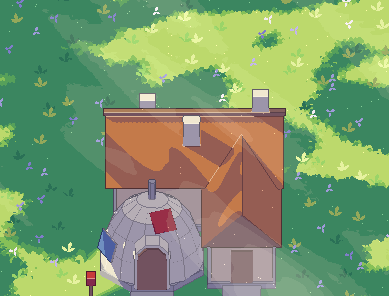
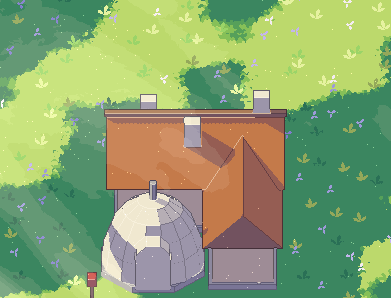
Build only the global form; details become textures
The building guide now asks for shapes only where a texture cannot show
the part: main volumes, parts that stick out (chimneys, pipes, an
entrance block), and small props that stand alone. Doors, windows,
signs, holes, and steps are left to textures, and no shape has the door
role for now.

The Chichi example drops its doors, windows, sign, and steps (25 to 17
shapes). The Buu house is added as a second example (12 shapes), with a
section on round bodies lying down.

Claude-Session: https://claude.ai/code/session_01RTs7g9ZtRZkezttS3mRvFA

diff --git a/documentation/building/README.md b/documentation/building/README.md
@@ -1,26 +1,55 @@
 # Building guide
 
-This guide says how to build a building from shapes. It is based on one example: the Chichi house that Claude built by hand. It shows how that house was built, step by step, and turns each step into a rule for any building.
+This guide says how to build a building from shapes. It is based on 2 examples: the Chichi house that Claude built by hand, and the Buu house. It shows how they were built and turns each step into a rule for any building.
 
-Every number here comes from `example/chichi-house.json`. "My reading" means the JSON does not show it: it is how I read what the JSON does. The guide agrees with `../style/rules.md`.
+The numbers here come from the 2 example plans. "My reading" means the plan does not show it: it is how I read what the plan does.
 
-For now, buildings use plain colors, no textures (see section 7).
+For now, buildings use plain colors, no textures (see section 7). Textures come later.
 
-The example:
+The examples:
 
-- `example/chichi-reference.png`: the image the house was built from.
-- `example/chichi-house.json`: the plan of shapes. It is Claude's hand-built plan with a few color changes so it follows the simple color rules. The shapes are not changed. Section 7 lists the changes.
-- `example/chichi-house.png`: the render in the game of Claude's plan. The changes do not show in it (99.8% of the pixels are the same).
-
-| Reference | Render in the game |
-| --- | --- |
-| ![Chichi house reference](example/chichi-reference.png) | ![Chichi house render](example/chichi-house.png) |
+| | Reference | Render in the game |
+| --- | --- | --- |
+| Chichi house: `example/chichi-house.json` | ![Chichi house reference](example/chichi-reference.png) | ![Chichi house render](example/chichi-house.png) |
+| Buu house: `example/buu-house.json` | ![Buu house reference](example/buu-reference.png) | ![Buu house render](example/buu-house.png) |
 
 The JSON is a plan, the format Infer returns (see `apps/asset-studio/server/shapes.ts`): `description`, `layout`, `shapes`, `textures`. In a plan, `faces` is a list of `{"face", "texture"}`. In `asset.json`, the same faces are a map from face name to slot.
 
-## 0. Keep shapes simple
+## 0. Only the global form
 
-> **The simpler the shape, the better. This rule comes first.**
+> **Build only the global form of the building. Everything else is a texture.**
+
+What matters is the global form: the outline and the volumes, so the building reads like the reference. The details do not matter now. They will be painted in textures later, so the result looks like the reference.
+
+**Make a shape** only for a part that a texture cannot show and that is a simple form:
+
+- the main volumes: walls, roofs, domes, wings, round bodies;
+- parts that stick out of the outline: chimneys, pipes, an entrance block that comes out of a wall, feet;
+- small things that stand alone, away from a wall: a mailbox, a post.
+
+**Do not make a shape** for anything that lies on a surface. It will be a texture on that surface:
+
+- doors, even the door that opens. The door will open and close as a texture;
+- windows, portholes, and window frames;
+- signs and marks;
+- holes and openings: a round door hole, the open end of a tube;
+- steps, frames, trim, bricks, planks, roof tiles, stones.
+
+The test: could it be painted on the surface of a bigger shape and still read right? Then it is a texture, not a shape.
+
+Chichi house:
+
+- Shapes: the walls, the 2 roofs, the ridge board, the 3 chimneys, the dome and its pipe, the white arch block that comes out of the dome, the wing, and the mailbox on its post. The 3 chimneys stick up from the roof, so a texture cannot show them.
+- Textures later: the 2 doors, the 2 windows, the red sign, the steps.
+
+Buu house:
+
+- Shapes: the head dome, the 4 segments, the 2 feet, and the tube on top. The front of the tube is only a flat round side.
+- Textures later: the round door hole on the head (the "eye"), the hole in the front of the tube, and all the small round windows.
+
+This differs from `../style/rules.md`, which makes doors, windows, and posts real shapes and gives each door the role "door". For buildings, follow this guide.
+
+### Keep the shapes simple
 
 This is 3D pixel art. A building is a few plain blocks, not a detailed model. The renderer, the outlines, and the colors give the look.
 
@@ -28,14 +57,11 @@ Do not make:
 
 - rounded edges or bevels,
 - curved roofs,
-- frames or trim built from many pieces,
-- extra shapes for small details.
+- frames or trim built from many pieces.
 
-If a part reads fine as one box, it is one box.
+If a part reads fine as one box, it is one box. The whole Chichi main house is 1 box for the walls (`walls`) and 1 wedge for the roof (`roof`). A base, a ridge board, and 3 chimneys add 5 more boxes. That is all.
 
-The proof is the Chichi house. The whole main house is 1 box for the walls (`walls`) and 1 wedge for the roof (`roof`). A base, a ridge board, 3 chimneys, and 1 window add 6 more boxes. That is all. Each part is one plain color: no bricks, no roof tiles, no planks, no window frame.
-
-Round things stay plain too. A cylinder has 8 flat sides and a dome has 14 sides and 5 bands (`packages/asset-format/src/geometry.ts`). The round top of the dome door is 1 cylinder laid on its side, not a ring of pieces. The sign is 1 red square box.
+Round things stay plain too. A cylinder has 8 flat sides and a dome has 14 sides and 5 bands (`packages/asset-format/src/geometry.ts`).
 
 ## 1. Coordinates
 
@@ -69,7 +95,7 @@ The Chichi `layout` gives each part its range and checks it:
 | Dome | front left | -2.17 to 0.23 | 1.4 to 3.8 | stands whole in front of the main house: 1.4 > 1.2 |
 | Wing | front right | 0.36 to 1.8 | 0.4 to 3.6 | starts right of the dome: 0.36 > 0.23 |
 
-The layout also gives the numbers the shapes need later: the dome center (x -0.97, z 2.6), its radius 1.2 and height 1.68, the roof height (1.15 m over 2.4 m), and the angles of the sign and the dome window.
+The layout also gives the numbers the shapes need later: the dome center (x -0.97, z 2.6), its radius 1.2 and height 1.68, and the roof height (1.15 m over 2.4 m). It ends by saying which details will be textures.
 
 The wing goes into the main house from z 0.4 to 1.2. The layout says so: "that joins the main house". Walls that join may touch. The dome does not touch the main house.
 
@@ -86,26 +112,27 @@ Build in this order. Each step names the Chichi shapes.
 | 3 | Wedge roof | `roof` |
 | 4 | Ridge board | `ridge` |
 | 5 | Chimneys | `chimney-1`, `chimney-2`, `chimney-3` |
-| 6 | Windows | `side-window` |
-| 7 | Second volumes | the dome on its ring: `dome-ring`, `dome`, `dome-pipe`, with `dome-sign` and `dome-window` on it; the wing: `wing-base`, `wing-walls`, `wing-roof` |
-| 8 | Doors with steps | dome door: `arch`, `arch-top`, `dome-door` (`role: "door"`), `door-top`, `dome-step`; wing door: `wing-door` (`role: "door"`), `wing-step` |
-| 9 | Small props | `mailbox-post`, `mailbox` |
+| 6 | Second volumes | the dome on its ring: `dome-ring`, `dome`, `dome-pipe`; the wing: `wing-base`, `wing-walls`, `wing-roof` |
+| 7 | Blocks that stick out | the entrance block of the dome: `arch`, `arch-top` |
+| 8 | Small props | `mailbox-post`, `mailbox` |
 
-In the JSON the dome door comes right after the dome, before the wing. The order of shapes in the file does not change the model.
+The order of shapes in the file does not change the model.
 
 Each part sits on the part under it:
 
 - The walls start at y 0.16, the top of the base.
 - The roof starts at y 1.3, the top of the walls (0.16 + 1.14).
 - The dome starts at y 0.16, the top of its ring. The wing walls start at y 0.16, the top of the wing base.
-- The doors and the arch start at y 0.16, the floor height of the base and the ring.
-- The steps and the mailbox post stand on the ground, at y 0.
+- The arch starts at y 0.16, the floor height of the ring.
+- The mailbox post stands on the ground, at y 0.
 
 A second volume (the dome, the wing) gets its own base, like the main house.
 
+The stone base: a building with walls, like the Chichi house, stands on a low stone base (`rules.md`). A round building that sits on the ground in its reference, like the Buu house, gets no base. Follow the reference.
+
 ## 4. Sizes
 
-All sizes are measured from the JSON.
+All sizes are measured from the Chichi plan.
 
 ### Base
 
@@ -140,32 +167,11 @@ All sizes are measured from the JSON.
 - `chimney-1` runs from z -0.64 to -0.32. The roof there is at y 1.946 and 2.198. The chimney bottom is at 1.815: 0.13 below the low edge. Its top is at 2.565: 0.37 above the high edge. `chimney-2` is the same on the front slope.
 - `chimney-3` stands near the ridge: its bottom is 0.065 below the low edge, and its top (2.933) is 0.43 above the ridge board.
 
-### Doors
-
-- Dome door (`dome-door`): a box 0.68 × 0.8, with a half disc of radius 0.34 on top (`door-top`).
-- It stands in a white arch (`arch`) 0.84 × 0.8 × 0.42, with a half disc of radius 0.42 on top (`arch-top`). The arch is 0.08 wider than the door on each side.
-- Wing door (`wing-door`): a box 0.5 × 0.86.
-- Both doors are 0.06 thick.
-- How far a door stands out: the dome door runs from z 3.89 to 3.95 and the arch front is at 3.89, so it stands 0.06 out. The wing door runs from z 3.59 to 3.65 and the wing wall front is at 3.6, so it stands 0.05 out and 0.01 in.
-- Both doors start at y 0.16, on the base or the ring.
-
-### Steps
-
-- 0.1 high, on the ground. A step is lower than the base (0.16).
-- 0.36 deep (dome) and 0.5 deep (wing).
-- Wider than the door: 1.0 for the 0.68 door (0.16 more on each side), 0.9 for the 0.5 door (0.2 more on each side).
-- A step touches what is behind it. `dome-step` starts at z 3.92, 0.03 under the door front (3.95). `wing-step` starts at z 3.65, 0.02 under the front of the wing base (3.67).
-
-### Windows and flat parts
-
-- `side-window`: 0.46 wide, 0.36 high, 0.1 thick, on the left wall. The wall face is at x -1.8 and the window runs from x -1.88 to -1.78: 0.08 out and 0.02 in. Its bottom is at y 0.58.
-- `dome-window`: 0.74 × 0.5, 0.05 thick.
-- `dome-sign`: 0.52 × 0.52, 0.04 thick.
-
 ### Other parts
 
 - `dome`: 2.4 wide and deep, 1.68 high. A true half-sphere would be 1.2 high; this dome is taller.
 - `dome-pipe`: 0.2 wide, 0.52 high. Its bottom is at y 1.74 and the dome top at 1.84, so it sinks 0.1 into the dome.
+- Entrance block of the dome: a white box (`arch`) 0.84 × 0.8 × 0.42 with a half disc of radius 0.42 on top (`arch-top`). It comes 0.09 out of the front of the dome (front at z 3.89, dome front at 3.8). The door on it will be a texture.
 - Mailbox: a post 0.08 × 0.6 × 0.08 and a box 0.24 × 0.2 × 0.3 on top of it, at y 0.6. 0.8 high in all.
 
 ### Compared with rules.md
@@ -173,7 +179,7 @@ All sizes are measured from the JSON.
 | rules.md | Chichi |
 | --- | --- |
 | Walls 1.2 to 1.4 m high | 1.3 (main) and 1.22 (wing), from the ground. The wall boxes alone are 1.14 and 1.06. My reading: rules.md counts from the ground, base included. |
-| A door about 0.6 × 0.85 m | 0.5 × 0.86 (wing). 0.68 × 0.8 plus a round top of radius 0.34 (dome). |
+| A door about 0.6 × 0.85 m | Not a shape now. Use this size when the door is painted. |
 | A small house about 3.6 × 2.4 m | Main walls 3.6 × 2.4. |
 | Roofs hang over by about 0.25 m | 0.26 (main), 0.2 (wing). |
 | A thin ridge board | 0.1 high, 0.18 wide, on the main roof only. |
@@ -181,13 +187,13 @@ All sizes are measured from the JSON.
 
 ## 5. Shape types
 
-| Type | Faces | Use it for | In Chichi |
-| --- | --- | --- | --- |
-| box | front, back, left, right, top, bottom | walls, bases, chimneys, windows, doors, steps, signs, posts | 18 |
-| cylinder | side, top, bottom (8 flat sides) | round bases, pipes, round tops (laid on its side) | 4: `dome-ring`, `dome-pipe`, `arch-top`, `door-top` |
-| wedge | front and back (the 2 slopes), left and right (the triangle ends), bottom | gable roofs | 2: `roof`, `wing-roof` |
-| pyramid | front, back, left, right, bottom | not in Chichi. My reading: roofs with 4 slopes, pointed tops | 0 |
-| dome | side, bottom (14 sides, 5 bands) | round houses. Width, depth, and height may differ | 1: `dome` |
+| Type | Faces | Use it for | In Chichi | In Buu |
+| --- | --- | --- | --- | --- |
+| box | front, back, left, right, top, bottom | walls, bases, chimneys, entrance blocks, posts | 11 | 0 |
+| cylinder | side, top, bottom (8 flat sides) | round bases, pipes, round tops and flat round ends (laid on its side) | 3: `dome-ring`, `dome-pipe`, `arch-top` | 1: `tube-rim` |
+| wedge | front and back (the 2 slopes), left and right (the triangle ends), bottom | gable roofs | 2: `roof`, `wing-roof` | 0 |
+| pyramid | front, back, left, right, bottom | My reading: roofs with 4 slopes, pointed tops | 0 | 0 |
+| dome | side, bottom (14 sides, 5 bands) | round houses and round bodies. Width, depth, and height may differ | 1: `dome` | 11 |
 
 ### A wedge with its gable to the front
 
@@ -205,58 +211,29 @@ With `tilt: 90` a cylinder lies on its side. Its flat faces look to the front an
 
 - `arch-top`: size [0.84, 0.43, 0.84], position y 0.96, z 3.47, tilt 90. It is a disc of radius 0.42, centered at y 0.96 (the top of the arch box), from z 3.47 (the back of the arch box) to 3.90.
 - Its lower half is inside the arch box, so only the upper half shows: a round top.
-- `door-top` does the same on the door: radius 0.34, at y 0.96, from z 3.89 to 3.96.
-- Each disc is 0.01 deeper than the box under it (0.43 vs 0.42, 0.07 vs 0.06), so its front stands just in front of the box front. My reading: so the 2 fronts do not lie in the same plane.
+- It is 0.01 deeper than the box under it (0.43 vs 0.42), so its front stands just in front of the box front. My reading: so the 2 fronts do not lie in the same plane.
 
-## 6. Things on curved surfaces
+## 6. Round bodies lying down
 
-The sign and the window lie flat on the dome and stand out of it. Their front face must point straight out of the dome. `rotationY` and `tilt` do this.
+The Buu house shows how to build round forms that lie down, such as the tube on its head.
 
-After a turn r and a tilt t, the front face of a box points along:
+### Laying a shape along a direction
 
-(sin r × cos t, −sin t, cos r × cos t)
+With `tilt: 90`, the height of a cylinder or a dome lies flat. Its axis then points along (sin r, 0, cos r), where r is `rotationY`. To lay it along a direction u seen from above, use r = atan2(u.x, u.z).
 
-This direction must be the direction straight out of the dome at that point (the normal).
+The Buu tube runs to the back right, 30° from x: u = (0.866, 0, -0.5), so r = 120. A dome laid with `rotationY: 120` points its round top to the back right. With `rotationY: -60` (120 − 180) it points to the front left.
 
-### How to work out the angles
+### An egg shape: 2 domes back to back
 
-The dome: the center of its bottom is (cx, y0, cz) = (-0.972, 0.16, 2.6). R = width / 2 = 1.2. H = height = 1.68.
+2 domes with the same center and the same width, one pointing each way, make an egg. Each half can have its own length. The front and back of the Buu tube are made this way.
 
-Let C be the middle of the box, just out of the dome surface. Then:
+### A flat round end
 
-1. Turn: `rotationY` = atan2(C.x − cx, C.z − cz).
-2. Tilt: the dome is a stretched half-sphere (H is not R), so use its stretched normal.
-   - d = sqrt((C.x − cx)² + (C.z − cz)²), the distance from the center, seen from above.
-   - e = atan( ((C.y − y0) / H²) / (d / R²) ), the angle of the normal above the ground.
-   - `tilt` = −e.
-   - On a true half-sphere (H = R), e is the angle of C above the base, seen from the center.
-3. Position: `position` is the center of the bottom of the box, not its middle. Go back from C by half the box height, along the box's own up direction:
-   - up = (sin t × sin r, cos t, sin t × cos r)
-   - `position` = C − (height / 2) × up
+A dome ends in a round point. To cut a round body flat, put a short cylinder (laid the same way) at the end, with its front face where the flat end should be. The tip of the dome must stay inside that cylinder. The Buu tube does this with `tube-rim`: 1.36 wide, its front face is the flat front of the tube. The hole in it will be a texture.
 
-### Check with the JSON
+### A steady swelling
 
-The sign. Its middle is C = (-0.722, 1.566, 3.226).
-
-- C minus the dome center: x 0.25, y 1.406, z 0.626.
-- `rotationY` = atan2(0.25, 0.626) = 21.8.
-- d = 0.674. e = atan((1.406 / 2.8224) / (0.674 / 1.44)) = atan(0.498 / 0.468) = 46.8. So `tilt` = -46.8.
-- up = (-0.271, 0.685, -0.677). `position` = C − 0.26 × up = (-0.652, 1.388, 3.402).
-- The JSON has `rotationY: 21.8`, `tilt: -46.8`, `position: [-0.652, 1.388, 3.402]`.
-
-The dome window. Its middle is C = (-1.997, 0.788, 3.059).
-
-- C minus the dome center: x -1.025, y 0.628, z 0.459.
-- `rotationY` = atan2(-1.025, 0.459) = -65.9.
-- d = 1.123. e = atan((0.628 / 2.8224) / (1.123 / 1.44)) = atan(0.223 / 0.780) = 15.9. So `tilt` = -15.9.
-- up = (0.250, 0.962, -0.112). `position` = C − 0.25 × up = (-2.06, 0.548, 3.087).
-- The JSON has `rotationY: -65.9`, `tilt: -15.9`, `position: [-2.06, 0.548, 3.087]`.
-
-### How far out
-
-In both, C is about 0.01 out of the dome surface. So the back face is just inside the dome (0.008 for the sign, 0.015 for the window) and the front face stands about 0.03 out. The JSON does not show how C was picked. My reading: pick a point on the dome, then move it about 0.01 out along the normal.
-
-Use the same steps for any curved surface: find the normal at the point, then turn and tilt the front face onto it.
+One egg swells fast near its tip, then slowly. To make a body that grows slowly and steadily, like the Buu tube, put 2 eggs one after the other: a thinner one in front and a fatter one behind. Size them so the outline rises with no dip, and keep each tip hidden inside the other egg or the rim. The Buu tube: the outline is 0.63 m (radius) at the front, grows steadily to 0.88 m at two thirds of its length, then ends in a round back.
 
 ## 7. Colors
 
@@ -264,25 +241,28 @@ For now there are no textures. Each texture slot is used only for its plain `col
 
 ### One slot per material
 
+Chichi house:
+
 | Slot | Color | Used on |
 | --- | --- | --- |
-| grey | #b8b4b0 | bases, dome ring, dome pipe, steps |
+| grey | #b8b4b0 | bases, dome ring, dome pipe |
 | cream | #f2dab0 | walls, wing walls |
 | tile | #c47a4a | both roofs: slopes and bottom |
-| wood | #ab7c58 | doors, door top, ridge board, triangle ends of both roofs, mailbox post |
+| wood | #ab7c58 | ridge board, triangle ends of both roofs, mailbox post |
 | white | #f0e8d0 | dome, arch, arch top, chimneys |
-| glass | #6f8fc0 | both windows |
-| red | #c83a3a | sign, mailbox |
+| red | #c83a3a | mailbox |
 
-- One slot per material, not one slot per part. A sign or a window is a box with a material color: the sign is `red`, like the mailbox; both windows are `glass`. This differs from `rules.md`, which gives each sign and window its own slot. That rule is for textures and comes back with them.
+Buu house: 1 slot, `white` (#eeebf5), on every shape.
+
+- One slot per material, not one slot per part.
 - The same material has the same color everywhere.
-- Daylight colors only. The reference is lit by an orange evening light. The plan uses plain day colors: cream #f2dab0, white #f0e8d0, not orange.
+- Daylight colors only. The Chichi reference is lit by an orange evening light. The plan uses plain day colors: cream #f2dab0, white #f0e8d0, not orange.
 - A slot color is the color in the sun. The renderer makes the shade tones.
 
 ### Which face gets which color
 
-- A shape is one color on all its faces: the color of its part. Walls are cream, doors wood, chimneys white, steps grey, windows glass.
-- The bottom gets that color too. Do not use `null`. A tilted shape can show its bottom: the dome sign leans back, so the game camera sees its bottom edge. A `null` face shows the grey fallback color there.
+- A shape is one color on all its faces: the color of its part. Walls are cream, chimneys white, bases grey.
+- The bottom gets that color too. Do not use `null`. A shape laid on its side shows its bottom: the flat front of the Buu tube is the `bottom` face of `tube-rim`. A `null` face shows the grey fallback color there.
 - A roof wedge is the only shape with 2 colors: its slopes and bottom are `tile`, its triangle ends (`left`, `right`) are `wood`. This is the same for every roof.
 
 Why wood on every triangle end: the camera looks straight along -z and never turns. A roof with its ridge along x has its triangle ends looking left and right, so the camera never sees them. Only a turned roof, like the wing roof, shows a triangle end, and there the plan uses wood. So one rule gives the same picture.
@@ -291,42 +271,36 @@ Why wood on every triangle end: the camera looks straight along -z and never tur
 
 The schema still needs `widthM`, `heightM`, and `description` on each slot. They do not change a plain color. Keep them ready for when textures come: `widthM` × `heightM` is the size of the main face the slot covers (cream 3.6 × 1.2, about the front wall), and `description` says what to paint.
 
-### What changed from Claude's plan
+### What changed from Claude's Chichi plan
 
-Claude's hand-built plan had 2 more slots and a few other face choices. The example now follows the rules above. No shape was changed.
-
-| Change | Seen in the game camera? |
+| Change | Why |
 | --- | --- |
-| `description`: "Goku's house" became "Chichi's house". | No. |
-| Main roof triangle ends: `cream` became `wood`. | No. They look left and right. |
-| Slot `sign` (#c83a3a) became `red` (#c83a3a). The slot was removed. | No. Same color. |
-| Slot `dome-window` (#6f8fc0) became `glass` (#6f8fc0). The slot was removed. | No. Same color. |
-| Dome window edges: `white` became `glass`. | Yes: its thin edges. |
-| Every `null` face got the color of its part. | Only the bottom edge of the sign. It was the grey fallback; it is now red. |
+| `description`: "Goku's house" became "Chichi's house". | The right name. |
+| Main roof triangle ends: `cream` became `wood`. | One rule for every roof. The camera never sees these faces. |
+| Every `null` face got the color of its part. | A `null` face that shows is grey. |
+| The 2 doors, the round door top, the 2 windows, the sign, and the 2 steps were removed, with the `sign`, `dome-window`, and `glass` slots. | Only the global form. They will be textures. |
 
-Check: both plans were drawn in flat colors from the game camera, with `geometry.ts`. 99.8% of the house pixels are the same. The 0.2% that differ are the dome window edges and the sign's bottom edge.
+The plan went from 25 to 17 shapes.
 
 ## 8. Limits
 
-- At most 30 shapes (`MAX_SHAPES` in `schema.ts`). Chichi uses 25: 18 boxes, 4 cylinders, 2 wedges, 1 dome.
+- At most 30 shapes (`MAX_SHAPES` in `schema.ts`). Chichi uses 17: 11 boxes, 3 cylinders, 2 wedges, 1 dome. Buu uses 12: 11 domes and 1 cylinder.
 - Only 5 shape types: box, cylinder, wedge, pyramid, dome.
-- No surface details as shapes: no bricks, planks, roof tiles, stones, cracks, or window frames. For now they are not shown at all; later they will be painted in textures. The Chichi side window is 1 blue box. The sign is 1 red box.
-- Doors, windows, chimneys, and posts are real small shapes. Chichi has 2 doors, 2 windows, 3 chimneys, 1 post, and 1 sign.
-- Every door is a real shape with `role: "door"`. Chichi has 2: `dome-door` and `wing-door`. All other shapes have `role: null`, the round door top (`door-top`) too.
+- No doors, windows, signs, holes, steps, or surface details as shapes. They will be textures.
+- No shape has `role: "door"` for now. The door will open and close as a texture.
 
 ## 9. Checklist
 
 Check a new building against this list before it is done.
 
-1. Could any part be a simpler shape, or fewer shapes? Then make it simpler.
-2. There is a one-sentence `description` and a `layout` with every part, its x and z range, and checks with numbers.
-3. The front faces +z. The ground is at y = 0. Each `position` is the center of the bottom of its shape.
-4. Every part sits on the part under it. Nothing floats. Chimneys and pipes sink into their roof or dome.
-5. The base is 0.16 high and sticks out 0.07 past the walls. Each second volume has its own base.
-6. Walls are 1.2 to 1.4 m high from the ground. Roofs hang over by about 0.2 to 0.26 m. Only the main roof has a ridge board.
-7. Parts side by side do not cut into each other. Only walls that join and small things on a surface touch.
-8. Every door is a real shape with `role: "door"`, about 0.06 thick, standing out of its wall, with a step 0.1 high in front.
-9. Things on a dome are turned and tilted onto the dome normal and stand about 0.03 out of it.
-10. One slot per material, plain colors, daylight colors.
-11. Each shape is one color on all its faces, bottom too, with no `null`. Roofs: slopes and bottom `tile`, triangle ends `wood`.
-12. 30 shapes or fewer, of the 5 types only.
+1. Is every shape part of the global form? Could a part be painted on a bigger shape instead? Then remove it: it will be a texture.
+2. Could any part be a simpler shape, or fewer shapes? Then make it simpler.
+3. There is a one-sentence `description` and a `layout` with every part, its x and z range, and checks with numbers. The layout says which details will be textures.
+4. The front faces +z. The ground is at y = 0. Each `position` is the center of the bottom of its shape.
+5. Every part sits on the part under it. Nothing floats. Chimneys and pipes sink into their roof or dome.
+6. A building with walls has a base 0.16 high, 0.07 past the walls, and each second volume has its own. A round building on the ground in its reference has none.
+7. Walls are 1.2 to 1.4 m high from the ground. Roofs hang over by about 0.2 to 0.26 m. Only the main roof has a ridge board.
+8. Parts side by side do not cut into each other. Only walls that join, and parts that grow out of each other (segments, eggs), touch.
+9. One slot per material, plain colors, daylight colors.
+10. Each shape is one color on all its faces, bottom too, with no `null`. Roofs: slopes and bottom `tile`, triangle ends `wood`.
+11. 30 shapes or fewer, of the 5 types only.
